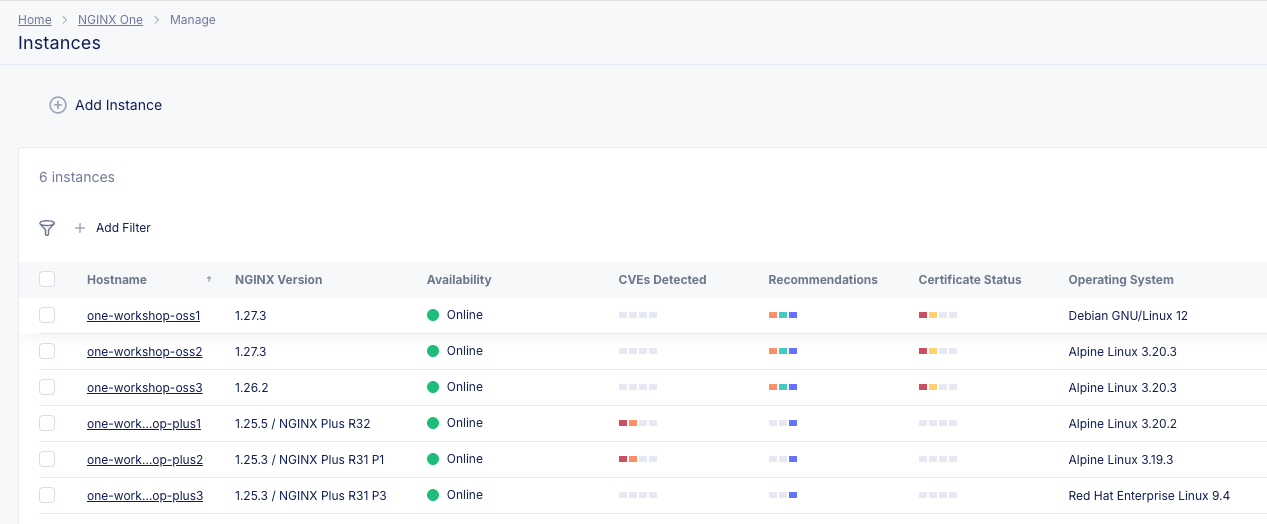
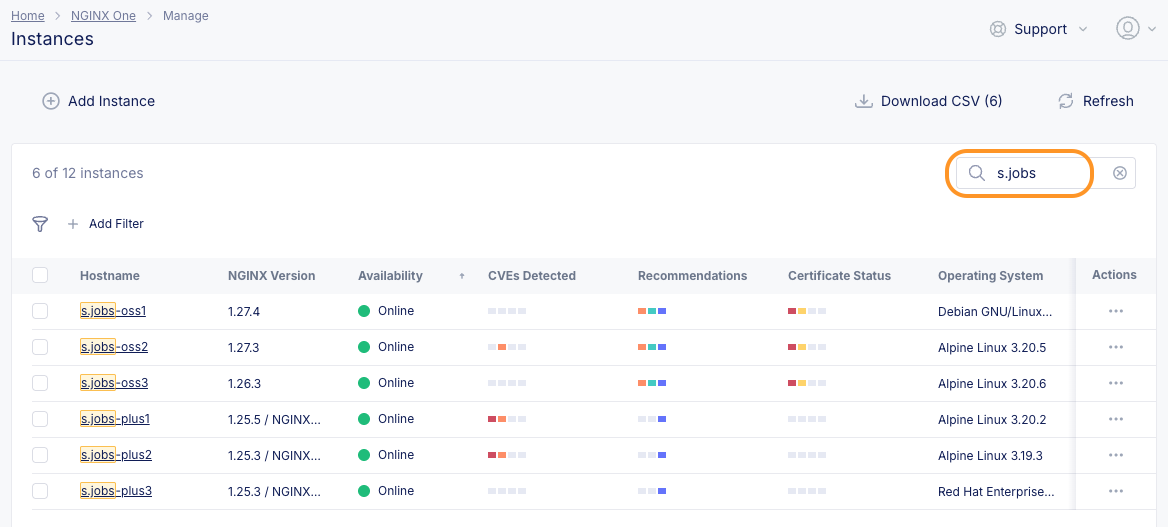
final edits for lab2

diff --git a/labs/lab2/readme.md b/labs/lab2/readme.md
@@ -154,7 +154,7 @@ You will run some Docker containers to build out various workshop components, us
    5cde3c462a27   nginxinc/ingress-demo                                                             "/docker-entrypoint.…"   44 minutes ago   Up 44 minutes   0.0.0.0:33380->80/tcp, :::33379->80/tcp, 0.0.0.0:33376->443/tcp, :::33375->443/tcp                                                                                             s.jobs-web3
    ```
 
-   Go back to your NGINX One Console Instance page, and click `Refresh`. You should see all 6 of your `$NAME-` instances appear in the list, and the Online icon should be `green`. If they did not Register with the One Console, it is likely you have an issue with the $TOKEN used, create a new Dataplane Key and try again. It should look similar to this:
+   Go back to your NGINX One Console Instance page, and click `Refresh`. In the search box type in your `$NAME` value to search your instances. You should see all 6 of your instances appear in the list, and the Online icon should be `green`. If they did not Register with the One Console, it is likely you have an issue with the $TOKEN used, create a new Dataplane Key and try again. It should look similar to this:
 
    ![NGINX Instances](media/lab2_none-instances.png)
 
